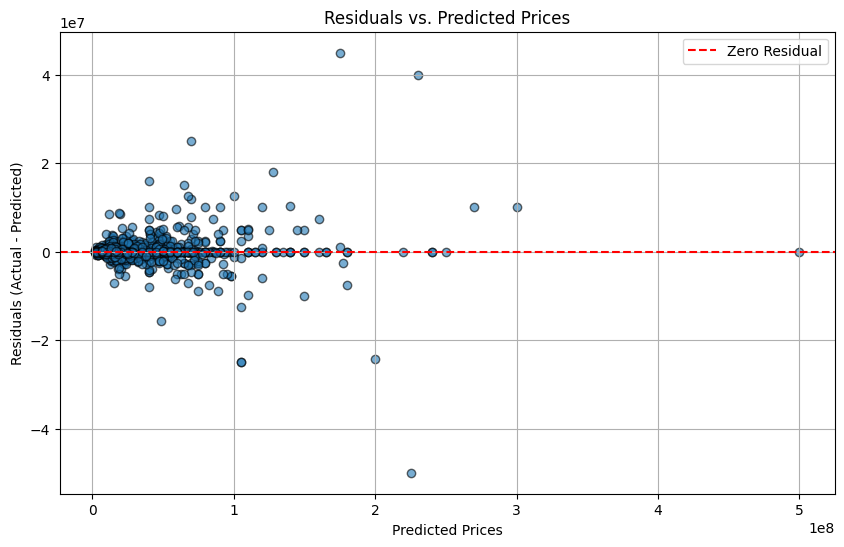
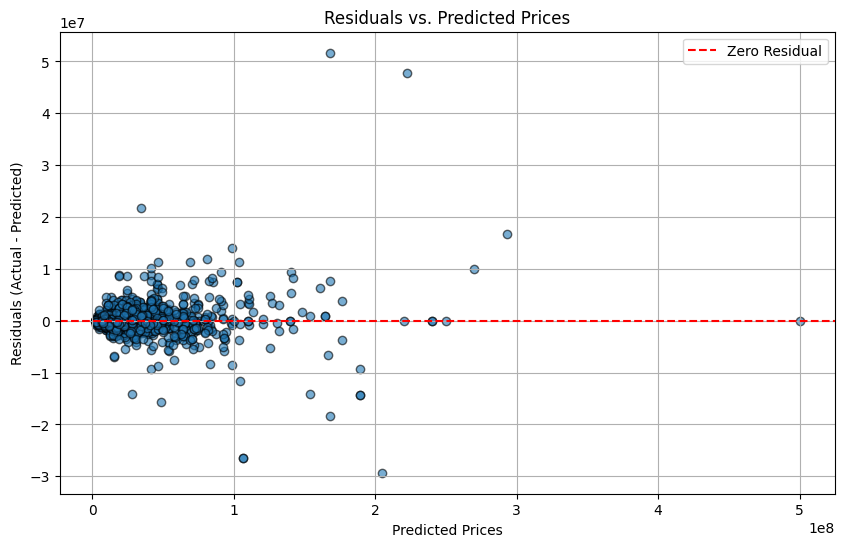
Updated Decision Tree hyperparameters: set max_depth to 10, min_samples_split to 5, and adjusted ccp_alpha values in remaining Q4 scripts. - Best Hyperparameter acc to GridSearch

diff --git a/A4/Q4/2.py b/A4/Q4/2.py
@@ -20,14 +20,14 @@ X_test = test_data.drop(columns=['Price', 'Price_Category'])
 y_test = test_data['Price']
 
 # Training Decision Tree on processed data using the Best Hyperparameters found in 2b
-# `ccp_alpha` = 31941543.737055868 is the best hyperparameter
+# `ccp_alpha` = 42035836.073539406 is the best hyperparameter
 model = DecisionTreeRegressor(
     random_state=42,
-    max_depth=None,
+    max_depth=10,
     max_features=None,
     min_samples_leaf=1,
-    min_samples_split=2,
-    ccp_alpha=31941543.737055868
+    min_samples_split=5,
+    ccp_alpha=42035836.073539406
 )
 model.fit(X_train, y_train)
 

diff --git a/A4/Q4/3.py b/A4/Q4/3.py
@@ -21,14 +21,14 @@ X_test = test_data.drop(columns=['Price', 'Price_Category'])
 y_test = test_data['Price']
 
 # Training Decision Tree on processed data using the Best Hyperparameters found in 2b
-# `ccp_alpha` = 31941543.737055868 is the best hyperparameter
+# `ccp_alpha` = 42035836.073539406 is the best hyperparameter
 model = DecisionTreeRegressor(
     random_state=42,
-    max_depth=None,
+    max_depth=10,
     max_features=None,
     min_samples_leaf=1,
-    min_samples_split=2,
-    ccp_alpha=31941543.737055868
+    min_samples_split=5,
+    ccp_alpha=42035836.073539406
 )
 model.fit(X_train, y_train)
 
